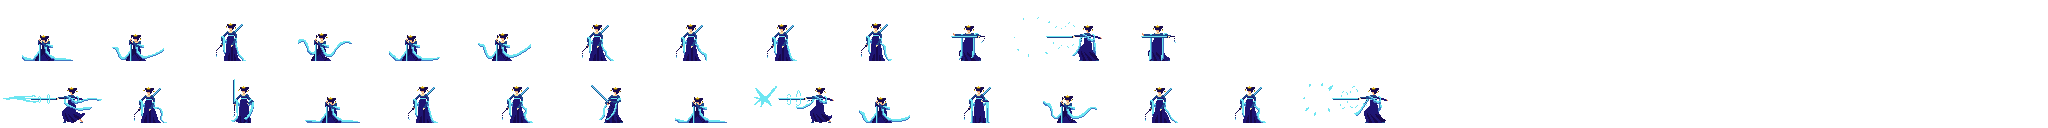
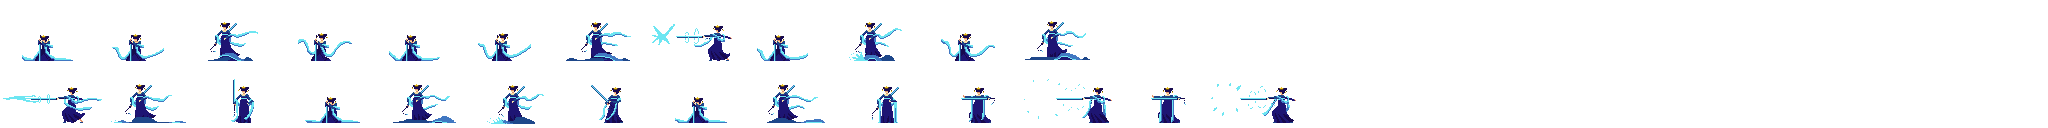
Added Water Slime and Water Queen Animations

diff --git a/source/core/src/main/com/csse3200/game/entities/factories/NPCFactory.java b/source/core/src/main/com/csse3200/game/entities/factories/NPCFactory.java
@@ -11,6 +11,8 @@ import com.csse3200.game.components.npc.FireWormAnimationController;
 import com.csse3200.game.components.npc.GhostAnimationController;
 import com.csse3200.game.components.npc.SkeletonAnimationController;
 import com.csse3200.game.components.npc.SplitMoblings;
+import com.csse3200.game.components.npc.WaterQueenAnimationController;
+import com.csse3200.game.components.npc.WaterSlimeAnimationController;
 import com.csse3200.game.components.npc.WizardAnimationController;
 import com.csse3200.game.components.npc.XenoAnimationController;
 import com.csse3200.game.components.tasks.MobAttackTask;
@@ -163,6 +165,66 @@ public class NPCFactory {
     wizard.getComponent(AnimationRenderComponent.class).scaleEntity();
 
     return wizard;
+  }
+  /**
+   * Creates a wizard entity.
+   *
+   * @param target entity to chase
+   * @return entity
+   */
+  public static Entity createWaterQueen(Entity target) {
+    Entity wizard = createBaseNPC(target);
+    BaseEnemyConfig config = configs.xenoGrunt;
+    ArrayList<Melee> melee = new ArrayList<>(Arrays.asList(PredefinedWeapons.sword, PredefinedWeapons.kick));
+    // tester projectiles
+    ArrayList<ProjectileConfig> projectiles = new ArrayList<>(Arrays.asList(PredefinedWeapons.fireBall, PredefinedWeapons.frostBall));
+    ArrayList<Currency> drops = new ArrayList<>();
+
+    AnimationRenderComponent animator =
+            new AnimationRenderComponent(
+                    ServiceLocator.getResourceService().getAsset("images/mobs/water_queen.atlas", TextureAtlas.class));
+    animator.addAnimation("water_queen_run", 0.1f, Animation.PlayMode.LOOP);
+    animator.addAnimation("water_queen_attack", 0.1f);
+    animator.addAnimation("water_queen_death", 0.1f);
+    wizard
+            .addComponent(new CombatStatsComponent(config.fullHeath, config.baseAttack, drops, melee, projectiles))
+            .addComponent(animator)
+            .addComponent(new WaterQueenAnimationController());
+
+    wizard.getComponent(HitboxComponent.class).setAsBoxAligned(new Vector2(.3f, .5f), PhysicsComponent.AlignX.RIGHT, PhysicsComponent.AlignY.CENTER);
+    wizard.getComponent(AnimationRenderComponent.class).scaleEntity();
+
+    return wizard;
+  }
+  /**
+   * Creates a wizard entity.
+   *
+   * @param target entity to chase
+   * @return entity
+   */
+  public static Entity createWaterSlime(Entity target) {
+    Entity waterSlime = createBaseNPC(target);
+    BaseEnemyConfig config = configs.xenoGrunt;
+    ArrayList<Melee> melee = new ArrayList<>(Arrays.asList(PredefinedWeapons.sword, PredefinedWeapons.kick));
+    // tester projectiles
+    ArrayList<ProjectileConfig> projectiles = new ArrayList<>(Arrays.asList(PredefinedWeapons.fireBall, PredefinedWeapons.frostBall));
+    ArrayList<Currency> drops = new ArrayList<>();
+
+    AnimationRenderComponent animator =
+            new AnimationRenderComponent(
+                    ServiceLocator.getResourceService().getAsset("images/mobs/water_slime.atlas", TextureAtlas.class));
+    animator.addAnimation("water_slime_walk", 0.1f, Animation.PlayMode.LOOP);
+    animator.addAnimation("water_slime_attack", 0.1f);
+    animator.addAnimation("water_slime_death", 0.1f);
+    waterSlime
+            .addComponent(new CombatStatsComponent(config.fullHeath, config.baseAttack, drops, melee, projectiles))
+            .addComponent(animator)
+            .addComponent(new WaterSlimeAnimationController());
+
+    waterSlime.getComponent(HitboxComponent.class).setAsBoxAligned(new Vector2(.3f, .5f), PhysicsComponent.AlignX.RIGHT, PhysicsComponent.AlignY.CENTER);
+    waterSlime.getComponent(AnimationRenderComponent.class).scaleEntity();
+
+    return waterSlime;
   }
   /**
    * Creates a fire worm entity.

diff --git a/source/core/src/main/com/csse3200/game/areas/ForestGameArea.java b/source/core/src/main/com/csse3200/game/areas/ForestGameArea.java
@@ -147,7 +147,9 @@ public class ForestGameArea extends GameArea {
           "images/mobs/fire_worm.atlas",
           "images/mobs/dragon_knight.atlas",
           "images/mobs/skeleton.atlas",
-          "images/mobs/wizard.atlas"
+          "images/mobs/wizard.atlas", 
+          "images/mobs/water_queen.atlas",
+          "images/mobs/water_slime.atlas"
   };
   private static final String[] forestSounds = {
           "sounds/Impact4.ogg",
@@ -209,17 +211,22 @@ public class ForestGameArea extends GameArea {
     switch (wave) {
       case 1:
       case 2:
-        // spawnFireWorm();
-        // spawnDragonKnight();
+        spawnFireWorm();
+        spawnDragonKnight();
         // spawnSkeleton();
-        spawnWizard();
+        // spawnWizard();
         // spawnXenoGrunts();
         break;
       case 3:
-        mobBoss2 = spawnMobBoss2();
+        spawnSkeleton();
+        spawnWizard();
+        // mobBoss2 = spawnMobBoss2();
         break;
       case 4:
-        mobBoss2 = spawnMobBoss2();
+        spawnWaterQueen();
+        spawnWaterSlime();
+        // mobBoss2 = spawnMobBoss2();
+        
         break;
       default:
         // Handle other wave scenarios if needed
@@ -557,10 +564,30 @@ public class ForestGameArea extends GameArea {
             .distinct().limit(5).toArray();
     for (int i = 0; i < NUM_GRUNTS; i++) {
       GridPoint2 randomPos = new GridPoint2(19, pickedLanes[i]);
-      System.out.println(randomPos);
       Entity wizard = NPCFactory.createWizard(player);
       wizard.setScale(1.5f, 1.5f);
       spawnEntityAt(wizard, randomPos, true, false);
+    }
+  }
+
+  private void spawnWaterQueen() {
+    int[] pickedLanes = new Random().ints(1, 7)
+            .distinct().limit(5).toArray();
+    for (int i = 0; i < NUM_GRUNTS; i++) {
+      GridPoint2 randomPos = new GridPoint2(19, pickedLanes[i]);
+      Entity waterQueen = NPCFactory.createWaterQueen(player);
+      waterQueen.setScale(1.5f, 1.5f);
+      spawnEntityAt(waterQueen, randomPos, true, false);
+    }
+  }
+  private void spawnWaterSlime() {
+    int[] pickedLanes = new Random().ints(1, 7)
+            .distinct().limit(5).toArray();
+    for (int i = 0; i < NUM_GRUNTS; i++) {
+      GridPoint2 randomPos = new GridPoint2(19, pickedLanes[i]);
+      Entity waterSlime = NPCFactory.createWaterSlime(player);
+      waterSlime.setScale(1.5f, 1.5f);
+      spawnEntityAt(waterSlime, randomPos, true, false);
     }
   }
 

diff --git a/source/core/src/main/com/csse3200/game/components/npc/WaterSlimeAnimationController.java b/source/core/src/main/com/csse3200/game/components/npc/WaterSlimeAnimationController.java
@@ -1,0 +1,44 @@
+package com.csse3200.game.components.npc;
+
+import com.badlogic.gdx.audio.Sound;
+import com.csse3200.game.components.Component;
+import com.csse3200.game.rendering.AnimationRenderComponent;
+import com.csse3200.game.services.ServiceLocator;
+
+import java.util.Random;
+
+/**
+ * This class listens to events relevant to a ghost entity's state and plays the animation when one
+ * of the events is triggered.
+ */
+public class WaterSlimeAnimationController extends Component {
+    // // For on collision sounds later
+    // private static final String COLLISION_SFX = "sounds/projectiles/on_collision.mp3";
+    // Sound onCollisionSound = ServiceLocator.getResourceService().getAsset(
+    //         COLLISION_SFX, Sound.class);
+    AnimationRenderComponent animator;
+    Random rand = new Random();
+
+    @Override
+    public void create() {
+        super.create();
+        animator = this.entity.getComponent(AnimationRenderComponent.class);
+        entity.getEvents().addListener("wanderStart", this::animateWalk);
+        entity.getEvents().addListener("shootStart", this::animateAttack);
+        entity.getEvents().addListener("dieStart", this::animateDeath);
+    }
+
+    void animateWalk() {
+        animator.startAnimation("water_slime_walk");
+    }
+
+    void animateAttack() {
+        animator.startAnimation("water_slime_attack");
+    }
+
+    void animateDeath() {
+        animator.startAnimation("water_slime_death");
+    }
+}
+
+

diff --git a/source/core/src/main/com/csse3200/game/components/npc/WaterQueenAnimationController.java b/source/core/src/main/com/csse3200/game/components/npc/WaterQueenAnimationController.java
@@ -1,0 +1,43 @@
+package com.csse3200.game.components.npc;
+
+import com.badlogic.gdx.audio.Sound;
+import com.csse3200.game.components.Component;
+import com.csse3200.game.rendering.AnimationRenderComponent;
+import com.csse3200.game.services.ServiceLocator;
+
+import java.util.Random;
+
+/**
+ * This class listens to events relevant to a ghost entity's state and plays the animation when one
+ * of the events is triggered.
+ */
+public class WaterQueenAnimationController extends Component {
+    // // For on collision sounds later
+    // private static final String COLLISION_SFX = "sounds/projectiles/on_collision.mp3";
+    // Sound onCollisionSound = ServiceLocator.getResourceService().getAsset(
+    //         COLLISION_SFX, Sound.class);
+    AnimationRenderComponent animator;
+    Random rand = new Random();
+
+    @Override
+    public void create() {
+        super.create();
+        animator = this.entity.getComponent(AnimationRenderComponent.class);
+        entity.getEvents().addListener("wanderStart", this::animateWalk);
+        entity.getEvents().addListener("shootStart", this::animateAttack);
+        entity.getEvents().addListener("dieStart", this::animateDeath);
+    }
+
+    void animateWalk() {
+        animator.startAnimation("water_queen_walk");
+    }
+
+    void animateAttack() {
+        animator.startAnimation("water_queen_attack");
+    }
+
+    void animateDeath() {
+        animator.startAnimation("water_queen_death");
+    }
+}
+
